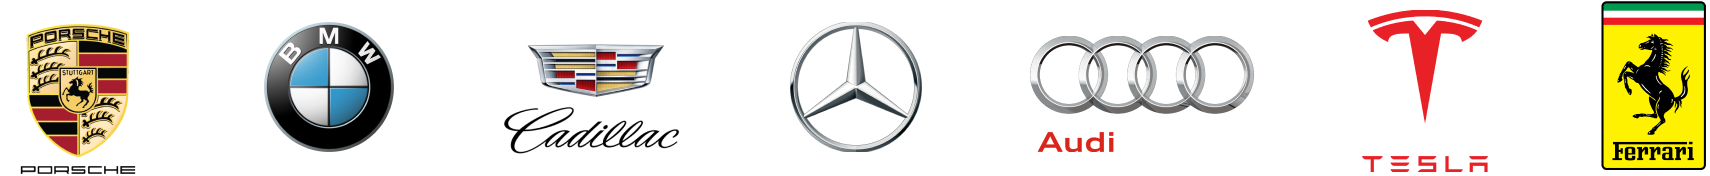
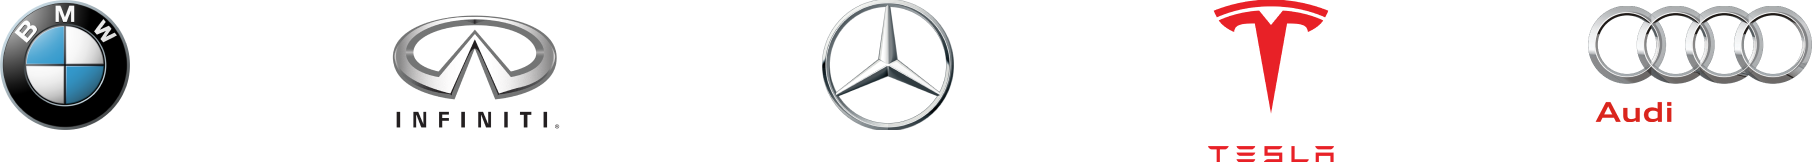
added pickup times, removed a few brands
still need to edit pickup times so that the scroll doesnt reach top of page

diff --git a/frontend/homepage.html b/frontend/homepage.html
@@ -11,7 +11,7 @@
   <link href="https://fonts.googleapis.com/css2?family=Ysabeau+SC:wght@600&display=swap" rel="stylesheet">
 
   <!-- Alegreya Sans SC -->
-<link href="https://fonts.googleapis.com/css2?family=Alegreya+Sans+SC:wght@400;700&display=swap" rel="stylesheet">
+  <link href="https://fonts.googleapis.com/css2?family=Alegreya+Sans+SC:wght@400;700&display=swap" rel="stylesheet">
 
   <link rel="stylesheet" href="style.css">
 </head>
@@ -44,153 +44,155 @@
   
   <!-- Hero image (now outside the banner) -->
   <div class="hero-image">
-  <img src="images/car.png" alt="Hero Image">
+    <img src="images/car.png" alt="Hero Image">
 
-  <!-- Text overlay (already exists) -->
-  <div class="hero-text">
-    <span class="blue">Unlock</span>
-    <span class="blue">a</span>
-    <span class="white">Smoother</span>
-    <span class="blue">Ride</span>
-  </div>
-
-  <!-- Booking form overlay -->
-  <div class="booking-form">
-    <!-- Top row: Locations -->
-    <div class="booking-row">
-      <div class="booking-item location-item">
-        <label for="pickup-location">Pickup Location</label>
-        <select id="pickup-location">
-
-          <option value="" disabled selected>Select pickup location</option>
-          <option value="Location 1">Los Angeles, CA</option>
-          <option value="Location 2">San Francisco, CA</option>
-          <option value="Location 3">San Diego, CA</option>
-          <option value="Location 4">Anaheim, CA</option>
-          <option value="Location 5">Sacramento, CA</option>
-          <option value="Location 6">San Jose, CA</option>
-          <option value="Location 7">Oakland, CA</option>
-          <option value="Location 8">Palm Springs, CA</option>
-          <option value="Location 9">Fresno, CA</option>
-          <option value="Location 10">Santa Barbara, CA</option>
-
-        </select>
-      </div>
-
-      <div class="booking-item location-item">
-        <label for="dropoff-location">Dropoff Location</label>
-        <select id="dropoff-location">
-
-          <option value="" disabled selected>Select dropoff location</option>
-          <option value="Location 1">Los Angeles, CA</option>
-          <option value="Location 2">San Francisco, CA</option>
-          <option value="Location 3">San Diego, CA</option>
-          <option value="Location 4">Anaheim, CA</option>
-          <option value="Location 5">Sacramento, CA</option>
-          <option value="Location 6">San Jose, CA</option>
-          <option value="Location 7">Oakland, CA</option>
-          <option value="Location 8">Palm Springs, CA</option>
-          <option value="Location 9">Fresno, CA</option>
-          <option value="Location 10">Santa Barbara, CA</option>
-
-        </select>
-      </div>
+    <!-- Text overlay -->
+    <div class="hero-text">
+      <span class="blue">Unlock</span>
+      <span class="blue">a</span>
+      <span class="white">Smoother</span>
+      <span class="blue">Ride</span>
     </div>
 
-    <!-- Bottom row: Dates and Times -->
-    <div class="booking-row">
-      <div class="booking-item">
-        <label for="pickup-date">Pickup Date</label>
-        <input type="date" id="pickup-date">
+    <!-- Booking form overlay -->
+    <div class="booking-form">
+      <!-- Top row: Locations -->
+      <div class="booking-row">
+        <div class="booking-item location-item">
+          <label for="pickup-location">Pickup Location</label>
+          <select id="pickup-location">
+            <option value="" disabled selected>Select pickup location</option>
+            <option value="Los Angeles, CA">Los Angeles, CA</option>
+            <option value="San Francisco, CA">San Francisco, CA</option>
+            <option value="San Diego, CA">San Diego, CA</option>
+            <option value="Anaheim, CA">Anaheim, CA</option>
+            <option value="Sacramento, CA">Sacramento, CA</option>
+            <option value="San Jose, CA">San Jose, CA</option>
+            <option value="Oakland, CA">Oakland, CA</option>
+            <option value="Palm Springs, CA">Palm Springs, CA</option>
+            <option value="Fresno, CA">Fresno, CA</option>
+            <option value="Santa Barbara, CA">Santa Barbara, CA</option>
+          </select>
+        </div>
+
+        <div class="booking-item location-item">
+          <label for="dropoff-location">Dropoff Location</label>
+          <select id="dropoff-location">
+            <option value="" disabled selected>Select dropoff location</option>
+            <option value="Los Angeles, CA">Los Angeles, CA</option>
+            <option value="San Francisco, CA">San Francisco, CA</option>
+            <option value="San Diego, CA">San Diego, CA</option>
+            <option value="Anaheim, CA">Anaheim, CA</option>
+            <option value="Sacramento, CA">Sacramento, CA</option>
+            <option value="San Jose, CA">San Jose, CA</option>
+            <option value="Oakland, CA">Oakland, CA</option>
+            <option value="Palm Springs, CA">Palm Springs, CA</option>
+            <option value="Fresno, CA">Fresno, CA</option>
+            <option value="Santa Barbara, CA">Santa Barbara, CA</option>
+          </select>
+        </div>
       </div>
 
-      <div class="booking-item">
-        <label for="pickup-time">Pickup Time</label>
-        <select id="pickup-time">
-          <option value="" disabled selected>Select pickup time</option>
-          <option value="08:00">08:00 AM</option>
-          <option value="09:00">09:00 AM</option>
-        </select>
+      <!-- Bottom row: Dates and Times -->
+      <div class="booking-row">
+        <div class="booking-item">
+          <label for="pickup-date">Pickup Date</label>
+          <input type="date" id="pickup-date">
+        </div>
+
+        <div class="booking-item">
+          <label for="pickup-time">Pickup Time</label>
+          <select id="pickup-time">
+            <option value="" disabled selected>Select pickup time</option>
+          </select>
+        </div>
+
+        <div class="booking-item">
+          <label for="dropoff-date">Dropoff Date</label>
+          <input type="date" id="dropoff-date">
+        </div>
+
+        <div class="booking-item">
+          <label for="dropoff-time">Dropoff Time</label>
+          <select id="dropoff-time">
+            <option value="" disabled selected>Select dropoff time</option>
+          </select>
+        </div>
       </div>
 
-      <div class="booking-item">
-        <label for="dropoff-date">Dropoff Date</label>
-        <input type="date" id="dropoff-date">
-      </div>
+      <button class="button search-button">Search</button>
+    </div>
+  </div>
 
-      <div class="booking-item">
-        <label for="dropoff-time">Dropoff Time</label>
-        <select id="dropoff-time">
-          <option value="" disabled selected>Select dropoff time</option>
-          <option value="08:00">08:00 AM</option>
-          <option value="09:00">09:00 AM</option>
-        </select>
-      </div>
+  <!-- Featured Brands Section -->
+  <section class="featured-brands">
+    <h2 class="featured-title">Featured Brands</h2>
+
+    <!-- Row 1 -->
+    <div class="brand-row">
+      <img src="images/firstbrandrow.png" alt="Brands Row 1" class="brand-logo">
     </div>
 
-    <button class="button search-button">Search</button>
-  </div>
+    <!-- Row 2 -->
+    <div class="brand-row">
+      <img src="images/secondbrandrow.png" alt="Brands Row 2" class="brand-logo">
+    </div>
+  </section>
 
-</div>
+  <!-- JavaScript -->
+  <script>
+    // ------------------ Date Handling ------------------
+    const pickupDateInput = document.getElementById('pickup-date');
+    const dropoffDateInput = document.getElementById('dropoff-date');
 
-<!-- Featured Brands Section -->
-<section class="featured-brands">
-  <h2 class="featured-title">Featured Brands</h2>
+    const today = new Date().toISOString().split('T')[0];
+    pickupDateInput.min = today;
+    dropoffDateInput.min = today;
 
-  <!-- Row 1 -->
-  <div class="brand-row">
-    <img src="images/firstbrandrow.png" alt="Brands Row 1" class="brand-logo">
-  </div>
-
-  <!-- Row 2 -->
-  <div class="brand-row">
-    <img src="images/secondbrandrow.png" alt="Brands Row 2" class="brand-logo">
-  </div>
-</section>
-
-
-<!--some js code; didn't see the need to add a js file if it'st just a bit-->
-
-<script>
-  const pickupDateInput = document.getElementById('pickup-date');
-  const dropoffDateInput = document.getElementById('dropoff-date');
-
-  // Set today's date as the minimum for both on page load
-  const today = new Date().toISOString().split('T')[0];
-  pickupDateInput.min = today;
-  dropoffDateInput.min = today;
-
-  // When pickup date changes, adjust dropoff date minimum
-  pickupDateInput.addEventListener('change', function () {
-    dropoffDateInput.min = this.value;
-
-    // If dropoff date is before new pickup date, clear it
-    if (dropoffDateInput.value && dropoffDateInput.value < this.value) {
-      dropoffDateInput.value = '';
-    }
-  });
-</script>
-
-<script>
-  // Animate title and rows on scroll
-  const featuredElements = document.querySelectorAll('.featured-title, .brand-row');
-
-  const observer = new IntersectionObserver(entries => {
-    entries.forEach(entry => {
-      if (entry.isIntersecting) {
-        entry.target.classList.add('visible');
-        observer.unobserve(entry.target); // animate only once
+    pickupDateInput.addEventListener('change', function () {
+      dropoffDateInput.min = this.value;
+      if (dropoffDateInput.value && dropoffDateInput.value < this.value) {
+        dropoffDateInput.value = '';
       }
     });
-  }, {
-    threshold: 0.5
-  });
 
-  featuredElements.forEach(el => observer.observe(el));
-</script>
+    // ------------------ Time Handling ------------------
+    function populateTimes(selectId, intervalMinutes = 30) {
+      const select = document.getElementById(selectId);
+      const startHour = 0;
+      const endHour = 23;
 
+      for (let hour = startHour; hour <= endHour; hour++) {
+        for (let min = 0; min < 60; min += intervalMinutes) {
+          const hour12 = hour % 12 === 0 ? 12 : hour % 12;
+          const ampm = hour < 12 ? "AM" : "PM";
+          const minuteStr = min.toString().padStart(2, "0");
+          const timeStr = `${hour12}:${minuteStr} ${ampm}`;
 
+          const option = document.createElement("option");
+          option.value = `${hour.toString().padStart(2, "0")}:${minuteStr}`;
+          option.text = timeStr;
+          select.appendChild(option);
+        }
+      }
+    }
 
+    populateTimes("pickup-time");
+    populateTimes("dropoff-time");
+
+    // ------------------ Featured Brands Animation ------------------
+    const featuredElements = document.querySelectorAll('.featured-title, .brand-row');
+    const observer = new IntersectionObserver(entries => {
+      entries.forEach(entry => {
+        if (entry.isIntersecting) {
+          entry.target.classList.add('visible');
+          observer.unobserve(entry.target); // animate only once
+        }
+      });
+    }, { threshold: 0.5 });
+
+    featuredElements.forEach(el => observer.observe(el));
+  </script>
 
 </body>
 </html>

diff --git a/frontend/style.css b/frontend/style.css
@@ -301,6 +301,12 @@ h1, .button {
 
 .brand-row img {
   width: 80%;
-  max-width: 1000px;
+  max-width: 2000px;
   height: auto;
 }
+
+.brand-row:nth-of-type(2) {
+  margin-left: -30px;  /* adjust this number as needed */
+  max-width: 5400px;
+}
+
